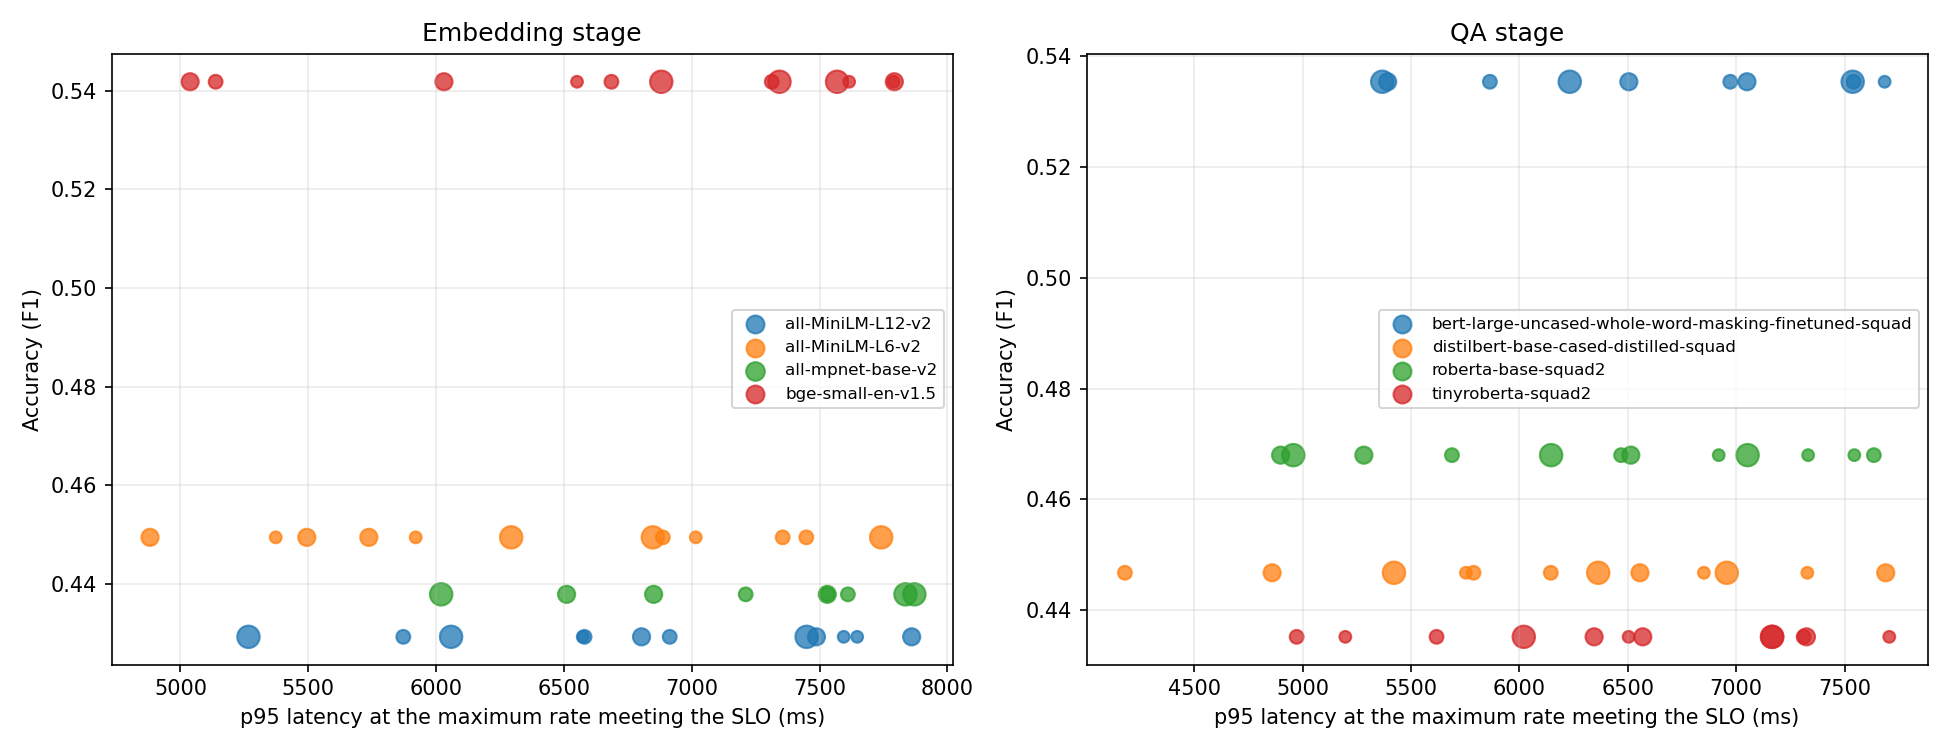
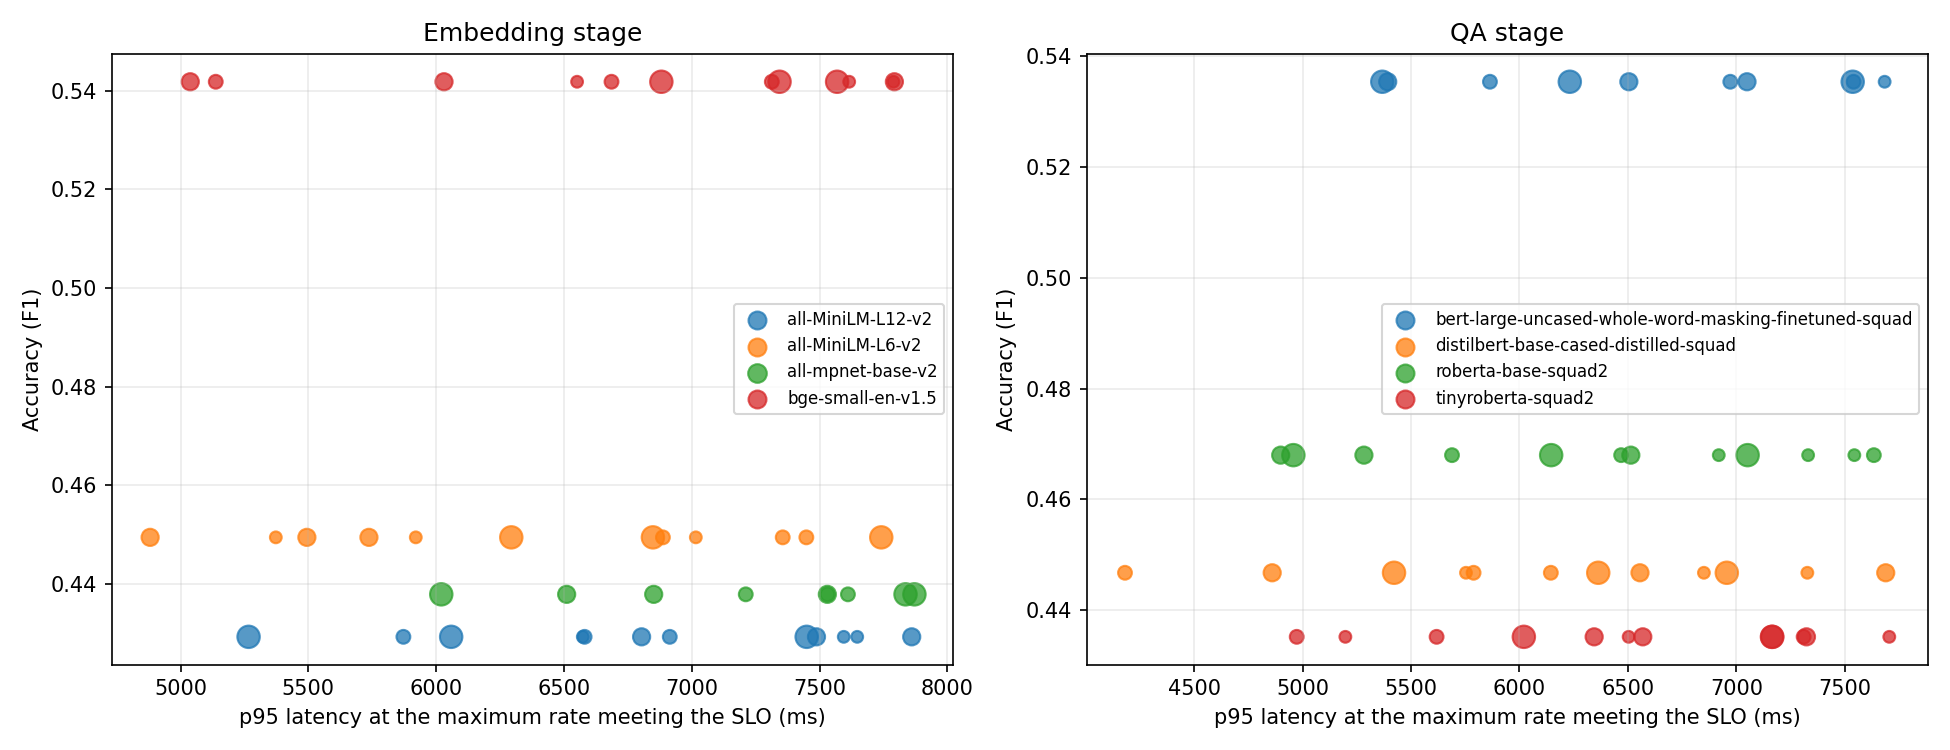
Compute the Pareto front over configurations that meet the SLA, make run_profile.sh executable, add demo scripts and regenerated report files

diff --git a/loadgen/report.py b/loadgen/report.py
@@ -223,7 +223,7 @@ def t7():
     for c in scored:
         ax.scatter(c["cost"], c["f1"], s=70, marker="o" if c["meets_sla"] else "x",
                    color="C2" if c["meets_sla"] else "C3")
-    front = pareto_front(scored)
+    front = pareto_front([c for c in scored if c["meets_sla"]])
     ax.step([c["cost"] for c in front], [c["f1"] for c in front], where="post",
             color="black", linewidth=1.2)
     for c in front:
